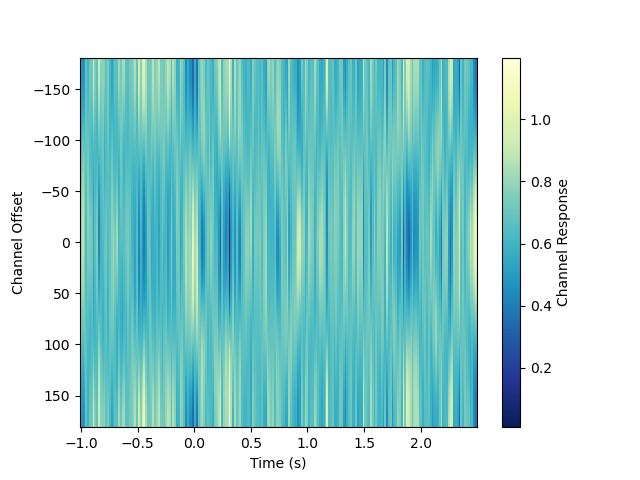
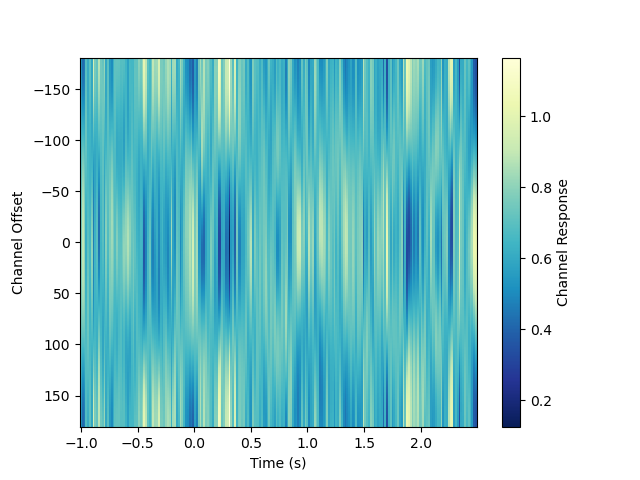
Threshold IEM to only include data from decent model fits

diff --git a/code/train_and_test_iem.py b/code/train_and_test_iem.py
@@ -14,8 +14,8 @@ from iem import IEM
 
 
 def load_processed_data(
-        subj, param, processed_dir=params.PROCESSED_DIR,
-        decim_factor=params.DECIM_FACTOR):
+        subj, param, threshold_param=None, threshold_val=None,
+        processed_dir=params.PROCESSED_DIR, decim_factor=params.DECIM_FACTOR):
     """Load processed EEG and behavioral data for one subject."""
     # Load epoched EEG data
     epochs = mne.read_epochs(os.path.join(
@@ -31,7 +31,13 @@ def load_processed_data(
 
     # Load processed data
     processed_data = mne.read_epochs(os.path.join(
-        processed_dir, f'{subj}_{param}_epo.fif'))
+        processed_dir, f'{subj}_{param}_epo.fif')).get_data()
+
+    # Load processed data for threhsold parameter
+    if threshold_param is not None and threshold_val is not None:
+        thresh_data =  mne.read_epochs(os.path.join(
+        processed_dir, f'{subj}_{threshold_param}_epo.fif')).get_data()
+        processed_data[thresh_data < threshold_val] = np.nan
     return epochs, times, beh_data, processed_data
 
 
@@ -58,8 +64,8 @@ def average_processed_data_within_trial_blocks(
         idx = np.random.permutation(val_split)[:n_trials_per_bin]
 
         # Average processed data across block of trials
-        block_avg = np.real(np.mean(processed_data.get_data(
-            )[idx, :, :].reshape(-1, n_blocks, n_channels, n_timepts), axis=0))
+        block_avg = np.real(np.nanmean(processed_data[idx, :, :].reshape(
+            -1, n_blocks, n_channels, n_timepts), axis=0))
 
         # Add block-averaged processed data to array
         processed_arr[:, i, :, :] = block_avg
@@ -165,18 +171,23 @@ def plot_ctf_slope(ctf_slopes, t_arr, palette=None, save_fname=None):
 
 
 def train_and_test_one_subj(
-        subj, param, n_blocks=params.N_BLOCKS,
-        n_block_iters=params.N_BLOCK_ITERS, save_dir=params.IEM_OUTPUT_DIR,
-        fig_dir=params.FIG_DIR):
+        subj, param, threshold_param=None, threshold_val=None,
+        n_blocks=params.N_BLOCKS, n_block_iters=params.N_BLOCK_ITERS,
+        save_dir=params.IEM_OUTPUT_DIR, fig_dir=params.FIG_DIR):
     """Reproduce one subject."""
     # Make directories specific to parameter
     save_dir = os.path.join(save_dir, param)
-    os.makedirs(save_dir, exist_ok=True)
     fig_dir = os.path.join(fig_dir, param)
+    if threshold_param is not None and threshold_val is not None:
+        save_dir = os.path.join(save_dir, f'{threshold_param}>{threshold_val}')
+        fig_dir = os.path.join(fig_dir, f'{threshold_param}>{threshold_val}')
+    os.makedirs(save_dir, exist_ok=True)
     os.makedirs(fig_dir, exist_ok=True)
 
     # Load processed data
-    epochs, times, beh_data, processed_data = load_processed_data(subj, param)
+    epochs, times, beh_data, processed_data = load_processed_data(
+        subj, param, threshold_param=threshold_param,
+        threshold_val=threshold_val)
 
     # Load channel offset data if already done
     channel_offset_fname = os.path.join(save_dir, f'channel_offset_{subj}.npy')
@@ -238,7 +249,8 @@ def train_and_test_one_subj(
 
 
 def train_and_test_all_subjs(
-        param, processed_dir=params.PROCESSED_DIR, fig_dir=params.FIG_DIR):
+        param, threshold_param=None, threshold_val=None,
+        processed_dir=params.PROCESSED_DIR, fig_dir=params.FIG_DIR):
     """Reproduce all subjects."""
     # Get all subject IDs
     subjs = sorted([f.split('_')[0] for f in os.listdir(
@@ -248,7 +260,9 @@ def train_and_test_all_subjs(
     mean_channel_offsets, mean_ctf_slopes = [], []
     for subj in subjs:
         subj_mean_channel_offset, subj_mean_ctf_slope, \
-            t_arr = train_and_test_one_subj(subj, param)
+            t_arr = train_and_test_one_subj(
+                subj, param, threshold_param=threshold_param,
+                threshold_val=threshold_val)
         mean_channel_offsets.append(subj_mean_channel_offset)
         mean_ctf_slopes.append(subj_mean_ctf_slope)
 

diff --git a/code/spec_param_iem.py b/code/spec_param_iem.py
@@ -13,11 +13,12 @@ if __name__ == '__main__':
         'total_power')
 
     # Decode spatial location from alpha oscillatory power
-    pw_channel_offsets, pw_ctf_slopes, t_arr = train_and_test_all_subjs('PW')
+    pw_channel_offsets, pw_ctf_slopes, t_arr = train_and_test_all_subjs(
+        'PW', threshold_param='R^2', threshold_val=0.5)
 
     # Decode spatial location from aperiodic exponent
     exp_channel_offsets, exp_ctf_slopes, _ = train_and_test_all_subjs(
-        'exponent')
+        'exponent', threshold_param='R^2', threshold_val=0.5)
 
     # Decimate total alpha power IEM results
     if tot_pw_ctf_slopes.shape[-1] > pw_ctf_slopes.shape[-1]:
